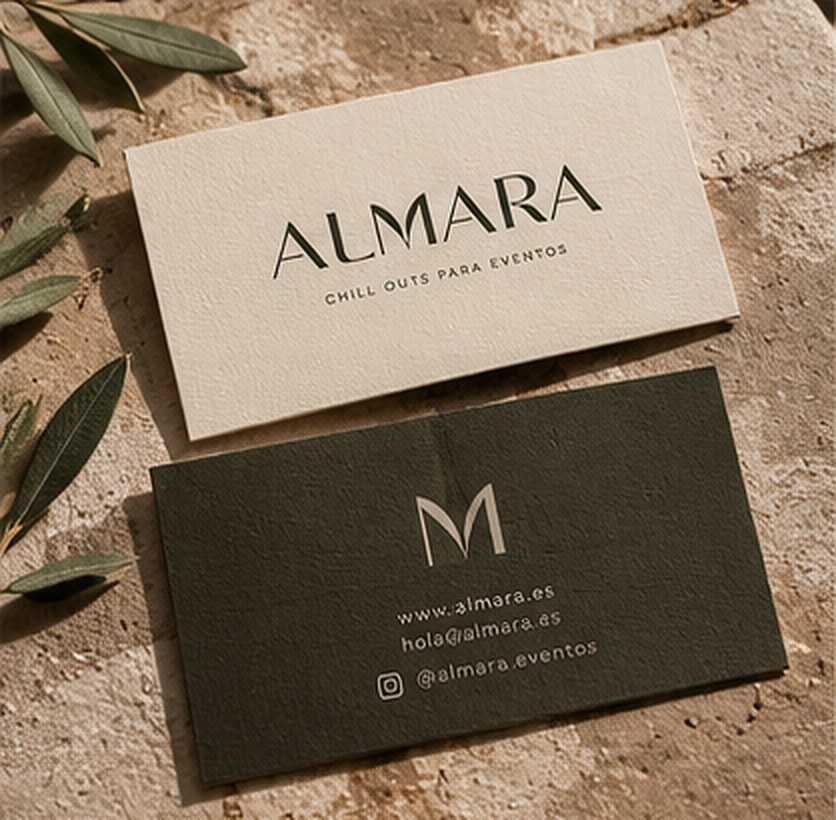
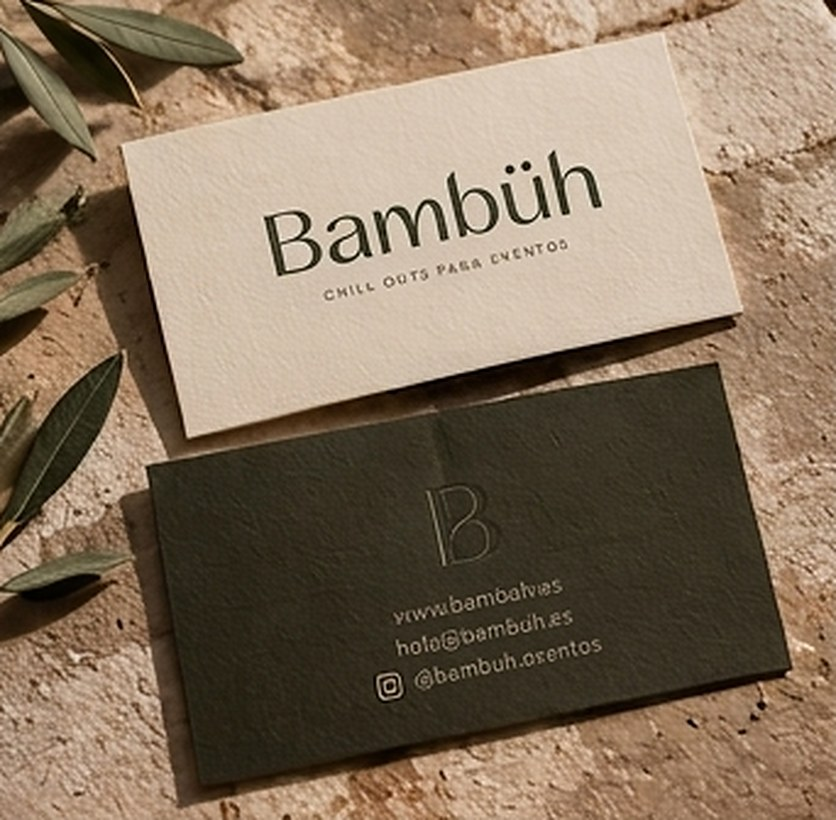
Renombra la marca de Almara a Bambüh
Actualiza textos, contacto, logos, monograma, favicon y fotos de marca.

diff --git a/index.html b/index.html
@@ -3,10 +3,10 @@
 <head>
   <meta charset="utf-8">
   <meta name="viewport" content="width=device-width, initial-scale=1, viewport-fit=cover">
-  <title>Almara · Chill outs para bodas y eventos</title>
-  <meta name="description" content="Almara crea chill outs de alquiler para bodas y eventos, combinando diseño, naturaleza y comodidad. Ambientes que se recuerdan.">
+  <title>Bambüh · Chill outs para bodas y eventos</title>
+  <meta name="description" content="Bambüh crea chill outs de alquiler para bodas y eventos, combinando diseño, naturaleza y comodidad. Ambientes que se recuerdan.">
   <meta name="theme-color" content="#303120">
-  <meta property="og:title" content="Almara · Chill outs para eventos">
+  <meta property="og:title" content="Bambüh · Chill outs para eventos">
   <meta property="og:description" content="Más que mobiliario, ambientes que se recuerdan.">
   <meta property="og:image" content="assets/img/hero.jpg">
   <link rel="icon" type="image/png" href="assets/img/favicon.png">
@@ -21,9 +21,9 @@
   <!-- Cabecera -->
   <header class="header" id="header">
     <div class="header__inner container">
-      <a href="#inicio" class="header__logo" aria-label="Almara, volver al inicio">
-        <img src="assets/img/logo-dark.png" alt="Almara" class="logo logo--dark" width="1025" height="169">
-        <img src="assets/img/logo-light.png" alt="" aria-hidden="true" class="logo logo--light" width="1025" height="169">
+      <a href="#inicio" class="header__logo" aria-label="Bambüh, volver al inicio">
+        <img src="assets/img/logo-dark.png" alt="Bambüh" class="logo logo--dark" width="793" height="166">
+        <img src="assets/img/logo-light.png" alt="" aria-hidden="true" class="logo logo--light" width="793" height="166">
       </a>
       <nav class="nav" id="nav" aria-label="Principal">
         <ul class="nav__list">
@@ -35,9 +35,9 @@
         </ul>
         <a href="#contacto" class="btn btn--small nav__cta">Solicita tu dossier</a>
         <div class="nav__extra">
-          <img src="assets/img/monogram-light.png" alt="" aria-hidden="true" width="190" height="167">
-          <a href="mailto:hola@almara.es">hola@almara.es</a>
-          <a href="https://instagram.com/almara.eventos" target="_blank" rel="noopener">@almara.eventos</a>
+          <img src="assets/img/monogram-light.png" alt="" aria-hidden="true" width="122" height="148">
+          <a href="mailto:hola@bambuh.es">hola@bambuh.es</a>
+          <a href="https://instagram.com/bambuh.eventos" target="_blank" rel="noopener">@bambuh.eventos</a>
         </div>
       </nav>
       <button class="menu-toggle" id="menuToggle" aria-expanded="false" aria-controls="nav" aria-label="Abrir menú">
@@ -77,7 +77,7 @@
         <div class="about__text">
           <p class="eyebrow reveal">Nosotros</p>
           <h2 class="section-title reveal">Creamos rincones donde <em>apetece quedarse</em>.</h2>
-          <p class="reveal">En Almara diseñamos chill outs de alquiler para bodas y eventos, combinando diseño, naturaleza y comodidad. Transformamos espacios en experiencias únicas, donde cada detalle invita a disfrutar.</p>
+          <p class="reveal">En Bambüh diseñamos chill outs de alquiler para bodas y eventos, combinando diseño, naturaleza y comodidad. Transformamos espacios en experiencias únicas, donde cada detalle invita a disfrutar.</p>
           <p class="reveal">Somos un grupo de amigos con una idea sencilla: que los momentos entre momentos —la sobremesa, el cóctel, la última copa— también se vivan con estilo.</p>
           <p class="about__signature reveal">Natural. Elegante. Atemporal.</p>
         </div>
@@ -85,7 +85,7 @@
           <div class="about__photo reveal-img">
             <img src="assets/img/night-tall.jpg" alt="Chill out con sofás de bambú y cojines blancos bajo guirnaldas de luces al anochecer" width="570" height="722" loading="lazy">
           </div>
-          <img src="assets/img/monogram-dark.png" alt="" aria-hidden="true" class="about__monogram" width="190" height="167" loading="lazy">
+          <img src="assets/img/monogram-dark.png" alt="" aria-hidden="true" class="about__monogram" width="122" height="148" loading="lazy">
         </figure>
       </div>
 
@@ -201,16 +201,16 @@
             <figcaption>Noches de verano</figcaption>
           </figure>
           <figure class="gallery__item gallery__item--tall reveal-img">
-            <img src="assets/img/cushion.jpg" alt="Detalle de cojín de lino con el logotipo de Almara sobre un brazo de bambú" width="530" height="722" loading="lazy">
+            <img src="assets/img/cushion.jpg" alt="Detalle de cojín de lino con el logotipo de Bambüh sobre un brazo de bambú" width="530" height="722" loading="lazy">
             <figcaption>Textiles naturales</figcaption>
           </figure>
           <figure class="gallery__item reveal-img">
-            <img src="assets/img/box.jpg" alt="Caja de cartón kraft con cinta verde oliva y sello Almara" width="690" height="820" loading="lazy">
+            <img src="assets/img/box.jpg" alt="Caja de cartón kraft con cinta verde oliva y sello Bambüh" width="690" height="820" loading="lazy">
             <figcaption>Cuidado en cada detalle</figcaption>
           </figure>
           <figure class="gallery__item reveal-img">
-            <img src="assets/img/cards.jpg" alt="Tarjetas de visita de Almara en crema y verde oliva entre hojas de olivo" width="836" height="820" loading="lazy">
-            <figcaption>Identidad Almara</figcaption>
+            <img src="assets/img/cards.jpg" alt="Tarjetas de visita de Bambüh en crema y verde oliva entre hojas de olivo" width="836" height="820" loading="lazy">
+            <figcaption>Identidad Bambüh</figcaption>
           </figure>
         </div>
       </div>
@@ -256,7 +256,7 @@
       <div class="quote__veil" aria-hidden="true"></div>
       <blockquote class="quote__text container">
         <p class="reveal">Diseño que <em>se vive</em>.</p>
-        <img src="assets/img/monogram-light.png" alt="" aria-hidden="true" class="quote__mono reveal" width="190" height="167" loading="lazy">
+        <img src="assets/img/monogram-light.png" alt="" aria-hidden="true" class="quote__mono reveal" width="122" height="148" loading="lazy">
       </blockquote>
     </section>
 
@@ -270,11 +270,11 @@
           <ul class="contact__list reveal" role="list">
             <li>
               <svg class="icon" viewBox="0 0 24 24" aria-hidden="true"><rect x="3" y="5" width="18" height="14" rx="1.5"/><path d="m3.5 6 8.5 7 8.5-7"/></svg>
-              <a href="mailto:hola@almara.es">hola@almara.es</a>
+              <a href="mailto:hola@bambuh.es">hola@bambuh.es</a>
             </li>
             <li>
               <svg class="icon" viewBox="0 0 24 24" aria-hidden="true"><rect x="3" y="3" width="18" height="18" rx="5"/><circle cx="12" cy="12" r="4"/><circle cx="17.5" cy="6.5" r=".6"/></svg>
-              <a href="https://instagram.com/almara.eventos" target="_blank" rel="noopener">@almara.eventos</a>
+              <a href="https://instagram.com/bambuh.eventos" target="_blank" rel="noopener">@bambuh.eventos</a>
             </li>
           </ul>
         </div>
@@ -334,14 +334,14 @@
 
   <div class="mobile-bar" id="mobileBar" aria-hidden="true">
     <a href="#contacto" class="btn btn--dark mobile-bar__cta" tabindex="-1">Solicita tu dossier</a>
-    <a href="mailto:hola@almara.es" class="mobile-bar__mail" aria-label="Escríbenos por email" tabindex="-1">
+    <a href="mailto:hola@bambuh.es" class="mobile-bar__mail" aria-label="Escríbenos por email" tabindex="-1">
       <svg viewBox="0 0 24 24" aria-hidden="true"><rect x="3" y="5" width="18" height="14" rx="1.5"/><path d="m3.5 6 8.5 7 8.5-7"/></svg>
     </a>
   </div>
 
   <footer class="footer">
     <div class="container footer__inner">
-      <img src="assets/img/logo-light.png" alt="Almara" class="footer__logo" width="1025" height="169" loading="lazy">
+      <img src="assets/img/logo-light.png" alt="Bambüh" class="footer__logo" width="793" height="166" loading="lazy">
       <p class="footer__tag">Chill outs para eventos</p>
       <nav class="footer__nav" aria-label="Pie de página">
         <a href="#nosotros">Nosotros</a>
@@ -349,7 +349,7 @@
         <a href="#ambientes">Ambientes</a>
         <a href="#contacto">Contacto</a>
       </nav>
-      <p class="footer__copy">© <span id="year">2026</span> Almara · Natural. Elegante. Atemporal.</p>
+      <p class="footer__copy">© <span id="year">2026</span> Bambüh · Natural. Elegante. Atemporal.</p>
     </div>
   </footer>
 

diff --git a/js/main.js b/js/main.js
@@ -1,4 +1,4 @@
-/* ALMARA — interacciones y animaciones (vanilla JS, sin dependencias) */
+/* BAMBÜH — interacciones y animaciones (vanilla JS, sin dependencias) */
 (() => {
   const root = document.documentElement;
   root.classList.add('js');
@@ -112,7 +112,7 @@
   // Formulario → abre el cliente de correo con el mensaje preparado
   const form = document.getElementById('contactForm');
   const status = document.getElementById('formStatus');
-  const MAIL_TO = 'hola@almara.es';
+  const MAIL_TO = 'hola@bambuh.es';
   const setError = (input, msg) => {
     const field = input.closest('.field');
     field.classList.toggle('has-error', Boolean(msg));
@@ -138,7 +138,7 @@
     const fecha = d.fecha ? new Date(d.fecha).toLocaleDateString('es-ES', { day: 'numeric', month: 'long', year: 'numeric' }) : 'Por definir';
     const subject = `Solicitud de dossier · ${d.tipo} · ${d.nombre}`;
     const body = [
-      'Hola Almara,',
+      'Hola Bambüh,',
       '',
       'Me gustaría recibir vuestro dossier. Estos son los datos de mi evento:',
       '',

diff --git a/css/styles.css b/css/styles.css
@@ -1,5 +1,5 @@
 /* ==========================================================================
-   ALMARA — Chill outs para eventos
+   BAMBÜH — Chill outs para eventos
    Paleta tomada de la identidad: oliva, arena, lino, salvia y crema.
    ========================================================================== */
 

diff --git a/README.md b/README.md
@@ -1,4 +1,4 @@
-# Almara — web
+# Bambüh — web
 
 Web informativa estática (HTML + CSS + JS, sin dependencias ni build).
 
@@ -18,7 +18,7 @@ python -m http.server 8080
 
 ## Cosas a revisar antes de publicar
 
-- **Email e Instagram**: `hola@almara.es` y `@almara.eventos` (sacados del board de identidad). El email está en `index.html` y en `MAIL_TO` de `js/main.js`.
+- **Email e Instagram**: `hola@bambuh.es` y `@bambuh.eventos` (sacados del board de identidad). El email está en `index.html` y en `MAIL_TO` de `js/main.js`.
 - **Fotos**: las actuales son recortes del board de identidad (baja resolución). Sustituir por fotos reales en `assets/img/` manteniendo los nombres.
 - **Formulario**: abre el cliente de correo del visitante con el mensaje ya redactado. Si más adelante se quiere envío directo, se puede conectar a Formspree o similar sin cambiar el diseño.
 
@@ -26,4 +26,4 @@ python -m http.server 8080
 
 1. Crear un repositorio y subir el contenido de esta carpeta (el `.nojekyll` ya está incluido).
 2. En *Settings → Pages*, elegir la rama `main` y la carpeta `/ (root)`.
-3. Opcional: dominio propio (`almara.es`) añadiendo un fichero `CNAME`.
+3. Opcional: dominio propio (`bambuh.es`) añadiendo un fichero `CNAME`.
